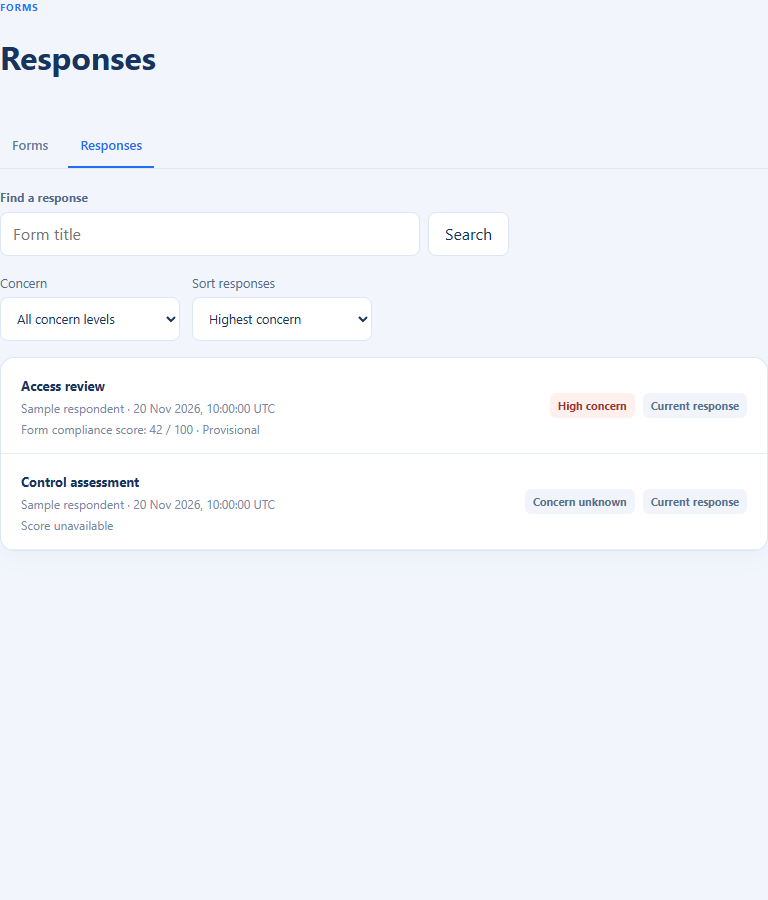
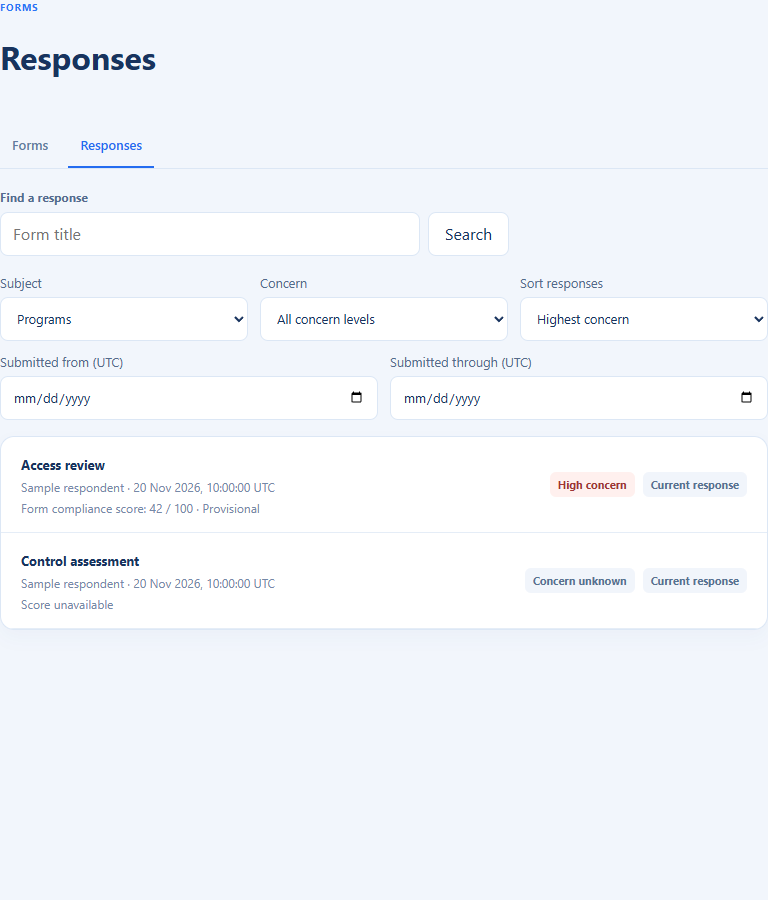
Add scoped response history and filters

diff --git a/web/src/v210/Responses.tsx b/web/src/v210/Responses.tsx
@@ -17,35 +17,44 @@ export function Responses({ id, reviewScope }: { id?: string; reviewScope?: Revi
 function ResponseList() {
   const [items, setItems] = useState<CompletedResponseSummary[]>([]);
   const [cursor, setCursor] = useState<string>();
-  const [state, setState] = useState<"loading" | "ready" | "error" | "invalid">("loading");
+  const [state, setState] = useState<"loading" | "ready" | "error" | "invalid" | "invalidDates" | "invalidSubject" | "invalidFilters">("loading");
   const initial = responseFilters();
   const [search, setSearch] = useState(initial.search); const [draft, setDraft] = useState(initial.search);
   const [concern, setConcern] = useState<"" | ResponseConcernBand>(initial.concern);
   const [sort, setSort] = useState<ResponseSort>(initial.sort);
+  const [from, setFrom] = useState(initial.from); const [through, setThrough] = useState(initial.through);
+  const [subject, setSubject] = useState(initial.subject);
+  const [invalidFilters, setInvalidFilters] = useState(initial.invalid);
   const [retry, setRetry] = useState(0); const [moreBusy, setMoreBusy] = useState(false); const [moreError, setMoreError] = useState(false);
   const generation = useRef(0);
   const moreLock = useRef<number | null>(null);
   useEffect(() => {
     const token = ++generation.current; moreLock.current = null; setItems([]); setCursor(undefined); setMoreBusy(false); setMoreError(false);
+    if (invalidFilters) { setState("invalidFilters"); return () => { generation.current++; }; }
     if (new TextEncoder().encode(search.trim()).length > 200) { setState("invalid"); return () => { generation.current++; }; }
+    if ((from && !validUTCDate(from)) || (through && !validUTCDate(through)) || (from && through && from > through)) { setState("invalidDates"); return () => { generation.current++; }; }
+    if (subject && !validResponseSubject(subject)) { setState("invalidSubject"); return () => { generation.current++; }; }
     setState("loading");
-    loadCompletedResponses({ search, current_only: false, limit: 25, sort, ...(concern ? {bands: [concern]} : {}) }).then((page) => { if (token === generation.current) { setItems(page.items); setCursor(page.next_cursor); setState("ready"); } }).catch(() => { if (token === generation.current) setState("error"); });
+    loadCompletedResponses({ search, current_only: false, limit: 25, sort, ...(concern ? {bands: [concern]} : {}), ...(subject ? {subject_type: subject} : {}), ...(from ? {completed_from: `${from}T00:00:00Z`} : {}), ...(through ? {completed_until: `${through}T23:59:59.999999Z`} : {}) }).then((page) => { if (token === generation.current) { setItems(page.items); setCursor(page.next_cursor); setState("ready"); } }).catch(() => { if (token === generation.current) setState("error"); });
     return () => { generation.current++; };
-  }, [search, concern, sort, retry]);
+  }, [search, concern, sort, subject, from, through, invalidFilters, retry]);
   async function more() {
     if (!cursor || moreBusy || moreLock.current !== null) return; const token = generation.current; moreLock.current = token; setMoreBusy(true); setMoreError(false);
-    try { const page = await loadCompletedResponses({ search, current_only: false, limit: 25, sort, ...(concern ? {bands: [concern]} : {}), cursor }); if (page.next_cursor === cursor) throw new Error("Response page unavailable"); if (token === generation.current) { setItems((value) => [...value, ...page.items]); setCursor(page.next_cursor); } }
+    try { const page = await loadCompletedResponses({ search, current_only: false, limit: 25, sort, ...(concern ? {bands: [concern]} : {}), ...(subject ? {subject_type: subject} : {}), ...(from ? {completed_from: `${from}T00:00:00Z`} : {}), ...(through ? {completed_until: `${through}T23:59:59.999999Z`} : {}), cursor }); if (page.next_cursor === cursor) throw new Error("Response page unavailable"); if (token === generation.current) { setItems((value) => [...value, ...page.items]); setCursor(page.next_cursor); } }
     catch (error) { if (token === generation.current) { if (accessDenied(error)) { setItems([]); setCursor(undefined); setState("error"); } else setMoreError(true); } }
     finally { if (moreLock.current === token) moreLock.current = null; if (token === generation.current) setMoreBusy(false); }
   }
   return <section className="v-responses"><header className="v-page-heading"><div><p className="v-eyebrow">Forms</p><h1>Responses</h1></div></header>
     <nav className="v-local-nav" aria-label="Form views"><a href="#/forms">Forms</a><a href="#/forms/responses" aria-current="page">Responses</a></nav>
     <form className="v-program-search" onSubmit={(event) => { event.preventDefault(); setSearch(draft.trim()); }}><label htmlFor="v-response-search">Find a response</label><div><input id="v-response-search" value={draft} onChange={(event) => setDraft(event.target.value)} placeholder="Form title"/><button>Search</button></div></form>
-    <div className="v-response-filters"><label>Concern<select value={concern} onChange={(event) => setConcern(event.target.value as "" | ResponseConcernBand)}><option value="">All concern levels</option><option value="CRITICAL">Critical</option><option value="HIGH">High</option><option value="MODERATE">Moderate</option><option value="LOW">Low</option></select></label><label>Sort responses<select value={sort} onChange={(event) => setSort(event.target.value as ResponseSort)}><option value="COMPLETED_DESC">Recently submitted</option><option value="CONCERN_DESC">Highest concern</option></select></label></div>
+    <div className="v-response-filters"><label>Subject<select value={subject} onChange={(event) => setSubject(event.target.value)}><option value="">All subjects</option><option value="PROGRAM">Programs</option><option value="MATTER">Issues and changes</option><option value="VENDOR_RELATIONSHIP">Vendor services</option>{subject && !validResponseSubject(subject) && <option value={subject} disabled>Unavailable subject</option>}</select></label><label>Concern<select value={concern} onChange={(event) => setConcern(event.target.value as "" | ResponseConcernBand)}><option value="">All concern levels</option><option value="CRITICAL">Critical</option><option value="HIGH">High</option><option value="MODERATE">Moderate</option><option value="LOW">Low</option></select></label><label>Sort responses<select value={sort} onChange={(event) => setSort(event.target.value as ResponseSort)}><option value="COMPLETED_DESC">Recently submitted</option><option value="CONCERN_DESC">Highest concern</option></select></label><label>Submitted from (UTC)<input type="date" value={from} onChange={(event) => setFrom(event.target.value)}/></label><label>Submitted through (UTC)<input type="date" value={through} onChange={(event) => setThrough(event.target.value)}/></label></div>
     {state === "loading" && <p role="status">Loading responses…</p>}
     {state === "invalid" && <p role="alert">Search is too long. Shorten the form title.</p>}
+    {state === "invalidFilters" && <div><p role="alert">Check the response filters.</p><button type="button" onClick={() => {clearResponseFilterParams(["response_search", "response_concern", "response_sort", "response_subject", "response_from", "response_through", "response_invalid"]); setSearch(""); setDraft(""); setConcern(""); setSort("COMPLETED_DESC"); setSubject(""); setFrom(""); setThrough(""); setInvalidFilters(false);}}>Clear filters</button></div>}
+    {state === "invalidSubject" && <div><p role="alert">Choose an available subject.</p><button type="button" onClick={() => {clearResponseFilterParams(["response_subject"]); setSubject("");}}>Clear subject</button></div>}
+    {state === "invalidDates" && <div><p role="alert">Check the submission dates.</p><button type="button" onClick={() => {clearResponseFilterParams(["response_from", "response_through"]); setFrom(""); setThrough("");}}>Clear dates</button></div>}
     {state === "error" && <div className="v-panel"><p role="alert">Responses unavailable.</p><button onClick={() => setRetry(retry + 1)}>Try again</button></div>}
-    {state === "ready" && <div className="v-panel v-response-list">{items.length === 0 ? <p>No responses match this search.</p> : <ul>{items.map((item) => <li key={item.id}><div><a href={`#/forms/responses/${encodeURIComponent(item.id)}${responseFilterQuery({search,concern,sort})}`}>{item.title}</a><small>{submitter(item)} · {timestampLabel(item.completed_at)}</small>{responseScoreLabel(item.score) && <small>{responseScoreLabel(item.score)}</small>}</div><div className="v-response-state"><span className={`v-status${responseConcern(item.score).high ? " v-status--high" : ""}`}>{responseConcern(item.score).label}</span><span className="v-status">{item.current ? "Current response" : "Earlier response"}</span></div></li>)}</ul>}{moreError && <p role="alert">More responses unavailable.</p>}{cursor && <button onClick={() => void more()} disabled={moreBusy}>{moreBusy ? "Loading…" : "Load more"}</button>}</div>}
+    {state === "ready" && <div className="v-panel v-response-list">{items.length === 0 ? <p>No responses match this search.</p> : <ul>{items.map((item) => <li key={item.id}><div><a href={`#/forms/responses/${encodeURIComponent(item.id)}${responseFilterQuery({search,concern,sort,subject,from,through,invalid:invalidFilters})}`}>{item.title}</a><small>{submitter(item)} · {timestampLabel(item.completed_at)}</small>{responseScoreLabel(item.score) && <small>{responseScoreLabel(item.score)}</small>}</div><div className="v-response-state"><span className={`v-status${responseConcern(item.score).high ? " v-status--high" : ""}`}>{responseConcern(item.score).label}</span><span className="v-status">{item.current ? "Current response" : "Earlier response"}</span></div></li>)}</ul>}{moreError && <p role="alert">More responses unavailable.</p>}{cursor && <button onClick={() => void more()} disabled={moreBusy}>{moreBusy ? "Loading…" : "Load more"}</button>}</div>}
   </section>;
 }
 
@@ -53,19 +62,21 @@ type Details = { response: CompletedResponseDetail; review?: ResponseReviewPage 
 function ResponseDetail({ id, reviewScope }: { id: string; reviewScope?: ReviewScope }) {
  const storageKey = reviewScope && reviewScope.tenant && reviewScope.entity && reviewScope.actor ? "clearsight:review:" + JSON.stringify([reviewScope.tenant,reviewScope.entity,reviewScope.actor,id]) : undefined;
  const [pending, setPending] = useState<PendingReview | null | undefined>(() => readPendingReview(storageKey));
-  const [data, setData] = useState<Details>(); const [state, setState] = useState<"loading" | "ready" | "error" | "invalid">("loading");
+  const [data, setData] = useState<Details>(); const [state, setState] = useState<"loading" | "ready" | "error">("loading");
   const [attempt, setAttempt] = useState(0); const [decision, setDecision] = useState<"" | ResponseReviewDecision>(""); const [comment, setComment] = useState("");
   const [busy, setBusy] = useState(false); const [saveError, setSaveError] = useState<"" | "validation" | "conflict" | "forbidden" | "unknown" | "committed" | "storage">(""); const [saved, setSaved] = useState(false);
   const [historyBusy, setHistoryBusy] = useState(false); const [historyError, setHistoryError] = useState(false);
   const [documentsBusy, setDocumentsBusy] = useState(false); const [documentsError, setDocumentsError] = useState(false);
+  const [earlier, setEarlier] = useState<Array<Pick<CompletedResponseDetail, "response" | "revision">>>([]); const [earlierBusy, setEarlierBusy] = useState(false); const [earlierError, setEarlierError] = useState(false);
   const generation = useRef(0);
   const saveLock = useRef(false);
   const historyLock = useRef<number | null>(null);
   const documentsLock = useRef<number | null>(null);
+  const earlierLock = useRef<number | null>(null);
   useEffect(() => {
     const token = ++generation.current; setState("loading"); setData(undefined); setSaveError(""); setSaved(false);
-    historyLock.current = null; documentsLock.current = null;
-    setHistoryBusy(false); setHistoryError(false); setDocumentsBusy(false); setDocumentsError(false);
+    historyLock.current = null; documentsLock.current = null; earlierLock.current = null;
+    setHistoryBusy(false); setHistoryError(false); setDocumentsBusy(false); setDocumentsError(false); setEarlier([]); setEarlierBusy(false); setEarlierError(false);
     Promise.allSettled([loadCompletedResponse(id), loadResponseReviews(id)]).then(([response, review]) => {
       if (token !== generation.current) return;
       if (response.status === "rejected" || !matchesResponseScope(response.value, id)) { setState("error"); return; }
@@ -115,6 +126,21 @@ function ResponseDetail({ id, reviewScope }: { id: string; reviewScope?: ReviewS
     catch (error) { if (token === generation.current) { if (accessDenied(error)) setData((value) => value ? { ...value, response: { ...value.response, documents: undefined, documents_next_cursor: undefined } } : value); else setDocumentsError(true); } }
     finally { if (documentsLock.current === token) documentsLock.current = null; if (token === generation.current) setDocumentsBusy(false); }
   }
+  async function loadEarlier() {
+    if (!data || earlierBusy || earlierLock.current !== null) return;
+    const distribution = data.response.response.distribution_id;
+    const last = earlier.at(-1) ?? data.response;
+    const nextID = last.revision.supersedes_revision_id;
+    const previousRevision = last.revision.revision;
+    if (!validHistoryIdentifier(distribution) || !validHistoryIdentifier(nextID) || nextID === id || earlier.some((item) => item.revision.id === nextID) || !Number.isSafeInteger(previousRevision) || previousRevision < 2) { setEarlierError(true); return; }
+    const token = generation.current; earlierLock.current = token; setEarlierBusy(true); setEarlierError(false);
+    try {
+      const item = await loadCompletedResponse(nextID);
+      if (!item?.response || !item.revision || item.response.id !== nextID || item.revision.id !== nextID || item.response.distribution_id !== distribution || item.response.current !== false || item.revision.current !== false || !Number.isSafeInteger(item.revision.revision) || item.revision.revision < 1 || item.revision.revision >= previousRevision || item.response.revision !== item.revision.revision) throw new Error("Earlier response unavailable");
+      if (token === generation.current) setEarlier((value) => [...value, {response:item.response, revision:item.revision}].slice(-25));
+    } catch (error) { if (token === generation.current) { if (accessDenied(error)) setEarlier([]); setEarlierError(true); } }
+    finally { if (earlierLock.current === token) earlierLock.current = null; if (token === generation.current) setEarlierBusy(false); }
+  }
   if (state === "loading") return <p role="status">Loading response…</p>;
   if (state === "error" || !data) return <section className="v-responses"><div className="v-panel"><h1>Response unavailable</h1><button className="v-primary" onClick={() => setAttempt(attempt + 1)}>Try again</button>{documentReturnDestination() && <p><a href={documentReturnDestination()}>View documents</a></p>}</div></section>;
   const { response: { response, revision, answers, documents, documents_next_cursor: documentsNext }, review } = data;
@@ -122,13 +148,14 @@ function ResponseDetail({ id, reviewScope }: { id: string; reviewScope?: ReviewS
   const canReview = Boolean(storageKey) && pending === undefined && isCurrent && answers && documents && !documentsNext && review?.may_review && (!saveError || saveError === "validation");
   const commentTooLong = new TextEncoder().encode(comment.trim()).length > 4000;
   const returnToDocuments = documentReturnDestination();
-  const previousHref = revision.supersedes_revision_id ? previousResponseHref(revision.supersedes_revision_id, response.distribution_id) : undefined;
+  const previousHref = revision.supersedes_revision_id && Number.isSafeInteger(response.revision) && response.revision === revision.revision && response.revision > 1 ? previousResponseHref(revision.supersedes_revision_id, response.distribution_id) : undefined;
   const documentHref = scopedDocumentsHref("response", id, undefined, response.distribution_id || undefined, responseFilterQuery(responseFilters()));
   return <section className="v-responses"><a className="v-back" href={returnToDocuments ?? `#/forms/responses${responseFilterQuery(responseFilters())}`}>{returnToDocuments ? "← Documents" : "← Responses"}</a><header className="v-page-heading"><div><p className="v-eyebrow">Response · Version {response.revision}</p><h1>{response.title}</h1></div><span className="v-status">{isCurrent ? "Current response" : "Earlier response"}</span></header>
     <div className="v-response-meta"><span>Submitted by <strong>{submitter(response)}</strong></span>{response.submission_recipient?.label && <span><span>Access recipient</span> <strong>{response.submission_recipient.label}</strong></span>}<span>Submitted <strong>{timestampLabel(response.completed_at)}</strong></span><span>Form version <strong>{response.form_template_version}</strong></span></div>
     {response.submission_recipient?.label && <p>Access recipient does not confirm who submitted the response.</p>}
-    {revision.supersedes_revision_id && <p>{previousHref ? <a href={previousHref}>Previous response</a> : "Earlier response unavailable."}</p>}
     {documentHref && <p><a href={documentHref}>View response documents</a></p>}
+    {revision.supersedes_revision_id && earlier.length === 0 && <p>{previousHref ? <a href={previousHref}>Previous response</a> : "Earlier response unavailable."}</p>}
+    {previousHref && Number.isSafeInteger(revision.revision) && revision.revision > 1 && <section className="v-panel v-response-versions"><h2>Earlier responses</h2>{earlier.length > 0 && <ul>{earlier.map((item) => <li key={item.revision.id}><a href={previousResponseHref(item.revision.id,response.distribution_id)}>Response version {item.revision.revision}</a><span>{timestampLabel(item.response.completed_at)}</span></li>)}</ul>}{earlierError && <p role="alert">Earlier responses unavailable.</p>}{(earlier.length === 0 || earlier.at(-1)?.revision.supersedes_revision_id) && <button type="button" disabled={earlierBusy} onClick={() => void loadEarlier()}>{earlierBusy ? "Loading…" : "Load earlier responses"}</button>}</section>}
     <section className="v-panel v-response-answers"><h2>Answers</h2>{!answers ? <p role="alert">Answers unavailable. Reload before reviewing.</p> : answers.length === 0 ? <p>No answers recorded.</p> : <dl>{answers.map(({ field_id, label, type, value }) => <div key={field_id}><dt>{label}</dt><dd>{answerLabel(type, value)}{value?.document && <span className="v-answer-document">{value.document.document_type && <span>Type: {value.document.document_type}</span>}{value.document.reference && <span>Reference: {value.document.reference}</span>}{value.document.issued_by && <span>Issued by: {value.document.issued_by}</span>}{value.document.issued_on && <span>Issued: {dateLabel(value.document.issued_on)}</span>}{value.document.expires_on && <span>Expires: {dateLabel(value.document.expires_on)}</span>}</span>}</dd></div>)}</dl>}</section>
     <section className="v-panel v-response-documents"><h2>Documents</h2>{!documents ? <p role="alert">Documents unavailable. Reload before reviewing.</p> : documents.length === 0 && !documentsNext ? <p>No documents submitted.</p> : <ul>{documents.map((document) => <li key={document.id}><span>{document.file_name}</span>{document.artifact_status === "AVAILABLE" || (document.artifact_status === "STORED_UNSCANNED" && document.demo_unscanned_allowed) ? <a href={documentContentURL(document, true)}>Download</a> : <small>File unavailable</small>}</li>)}</ul>}{documentsNext && <><p>More documents must be loaded before review.</p>{documentsError && <p role="alert">Additional documents unavailable.</p>}<button disabled={documentsBusy} onClick={() => void moreDocuments()}>{documentsBusy ? "Loading…" : "Load more documents"}</button></>}</section>
     <section className="v-panel v-response-review"><h2>Review</h2>{!review ? <><p role="alert">Review unavailable.</p><button onClick={() => setAttempt(attempt + 1)}>Reload response</button></> : <>
@@ -153,17 +180,35 @@ function readPendingReview(key?: string): PendingReview | null | undefined {
   return {...item, input: {...input, comment: ""}, needsComment: true};
  } catch { return null; }
 }
-function responseFilters(): {search: string; concern: "" | ResponseConcernBand; sort: ResponseSort} {
- const params = new URLSearchParams(window.location.hash.split("?")[1] ?? "");
- const band = params.get("response_concern"); const order = params.get("response_sort");
- return { search: (params.get("response_search") ?? ""), concern: band === "LOW" || band === "MODERATE" || band === "HIGH" || band === "CRITICAL" ? band : "", sort: order === "CONCERN_DESC" ? order : "COMPLETED_DESC" };
+function clearResponseFilterParams(keys: string[]) {
+ const hash = window.location.hash; const split = hash.indexOf("?");
+ if (split < 0) return;
+ const params = new URLSearchParams(hash.slice(split + 1)); keys.forEach((key) => params.delete(key));
+ const query = params.toString(); const url = new URL(window.location.href);
+ window.history.replaceState(window.history.state, "", url.pathname + url.search + hash.slice(0, split) + (query ? "?" + query : ""));
 }
-function responseFilterQuery(filters: {search: string; concern: "" | ResponseConcernBand; sort: ResponseSort}) {
+function responseFilters(): {search: string; concern: "" | ResponseConcernBand; sort: ResponseSort; subject: string; from: string; through: string; invalid: boolean} {
+ const params = new URLSearchParams(window.location.hash.split("?")[1] ?? "");
+ const band = params.get("response_concern"); const order = params.get("response_sort"); const subjects = params.getAll("response_subject");
+ const invalid = ["response_search","response_concern","response_sort","response_from","response_through"].some((key) => params.getAll(key).length > 1) || params.has("response_invalid") || (band !== null && band !== "" && !["LOW","MODERATE","HIGH","CRITICAL"].includes(band)) || (order !== null && order !== "" && order !== "COMPLETED_DESC" && order !== "CONCERN_DESC");
+ return { search: (params.get("response_search") ?? ""), concern: band === "LOW" || band === "MODERATE" || band === "HIGH" || band === "CRITICAL" ? band : "", sort: order === "CONCERN_DESC" ? order : "COMPLETED_DESC", subject: subjects.length > 1 ? "INVALID" : subjects[0] ?? "", from: params.get("response_from") ?? "", through: params.get("response_through") ?? "", invalid };
+}
+function responseFilterQuery(filters: {search: string; concern: "" | ResponseConcernBand; sort: ResponseSort; subject: string; from: string; through: string; invalid: boolean}) {
  const params = new URLSearchParams();
  if (filters.search) params.set("response_search", filters.search);
  if (filters.concern) params.set("response_concern", filters.concern);
+ if (filters.subject) params.set("response_subject", filters.subject);
  if (filters.sort !== "COMPLETED_DESC") params.set("response_sort", filters.sort);
+ if (filters.from) params.set("response_from", filters.from);
+ if (filters.through) params.set("response_through", filters.through);
+ if (filters.invalid) params.set("response_invalid", "1");
  const query = params.toString(); return query ? `?${query}` : "";
+}
+function validResponseSubject(value: string): boolean { return value === "PROGRAM" || value === "MATTER" || value === "VENDOR_RELATIONSHIP"; }
+function validUTCDate(value: string): boolean {
+ if (!/^\d{4}-\d{2}-\d{2}$/.test(value) || value.startsWith("0000-")) return false;
+ const date = new Date(`${value}T00:00:00Z`);
+ return !Number.isNaN(date.getTime()) && date.toISOString().slice(0, 10) === value;
 }
 function responseConcern(score?: ResponseScore): {label: string; high: boolean} {
  const valid = responseScoreLabel(score);
@@ -198,7 +243,10 @@ function previousResponseHref(id: string, distribution: string | undefined) {
   const query = params.toString();
   try { return `#/forms/responses/${encodeURIComponent(id)}?${query}`; } catch { return undefined; }
 }
-function validHistoryIdentifier(value: unknown): value is string { return typeof value === "string" && value.length > 0 && value.length <= 200 && value.trim() === value && value !== "*" && !/[\u0000-\u001f\u007f]/.test(value); }
+function validHistoryIdentifier(value: unknown): value is string {
+ if (typeof value !== "string" || value.length === 0 || value.length > 200 || value.trim() !== value || value === "*" || /[\u0000-\u001f\u007f]/.test(value)) return false;
+ try { encodeURIComponent(value); return true; } catch { return false; }
+}
 function accessDenied(error: unknown) { return ["unauthorized", "forbidden"].includes(apiErrorKind(error)); }
 function timestampLabel(value: string) {
   const match = /^(\d{4})-(\d{2})-(\d{2})T(\d{2}):(\d{2}):(\d{2})(?:\.\d+)?(?:Z|[+-]\d{2}:\d{2})$/.exec(value);

diff --git a/web/src/v210/Responses.test.tsx b/web/src/v210/Responses.test.tsx
@@ -500,3 +500,58 @@ it("rejects an overlong typed search without issuing a query",async()=>{
 it("shows only a stored valid concern band",async()=>{
  responses.loadCompletedResponses.mockResolvedValue({items:[{...summary,score:{state:"FINAL",final:true,mode:"COMPLIANCE",raw_score:42,band:"HIGH"}},{...summary,id:"unknown",title:"Unknown",score:{state:"FINAL",final:false,mode:"COMPLIANCE",raw_score:42,band:"CRITICAL"}},{...summary,id:"missing",title:"Missing"}]}); render(<Responses/>); expect(await screen.findByText("High concern")).toBeTruthy(); expect(screen.getAllByText("Concern unknown")).toHaveLength(2); expect(screen.queryByText("Critical concern")).toBeNull();
 });
+
+it("applies the inclusive UTC submission dates to the server query and next page", async () => {
+ responses.loadCompletedResponses.mockResolvedValue({items:[summary],next_cursor:"page-2"});
+ render(<Responses/>); await screen.findByText(/Ada Bello/);
+ fireEvent.change(screen.getByLabelText("Submitted from (UTC)"),{target:{value:"2026-11-01"}});
+ fireEvent.change(screen.getByLabelText("Submitted through (UTC)"),{target:{value:"2026-11-30"}});
+ await vi.waitFor(()=>expect(responses.loadCompletedResponses).toHaveBeenLastCalledWith(expect.objectContaining({completed_from:"2026-11-01T00:00:00Z",completed_until:"2026-11-30T23:59:59.999999Z"})));
+ fireEvent.click(await screen.findByRole("button",{name:"Load more"})); await vi.waitFor(()=>expect(responses.loadCompletedResponses).toHaveBeenLastCalledWith(expect.objectContaining({cursor:"page-2",completed_from:"2026-11-01T00:00:00Z",completed_until:"2026-11-30T23:59:59.999999Z"})));
+ expect(screen.getByRole("link",{name:"Access review"}).getAttribute("href")).toContain("response_from=2026-11-01");
+});
+it("rejects a reversed submission range without querying",async()=>{
+ render(<Responses/>); await screen.findByText(/Ada Bello/); fireEvent.change(screen.getByLabelText("Submitted from (UTC)"),{target:{value:"2026-12-01"}}); await vi.waitFor(()=>expect(responses.loadCompletedResponses).toHaveBeenLastCalledWith(expect.objectContaining({completed_from:"2026-12-01T00:00:00Z"}))); responses.loadCompletedResponses.mockClear();
+ fireEvent.change(screen.getByLabelText("Submitted through (UTC)"),{target:{value:"2026-11-01"}}); expect(await screen.findByText("Check the submission dates.")).toBeTruthy(); expect(responses.loadCompletedResponses).not.toHaveBeenCalled();
+});
+
+it("blocks malformed date filters from the link until cleared",async()=>{
+ const old=window.location.hash; window.history.replaceState(null,"","#/forms/responses?response_from=2026-02-30"); render(<Responses/>);
+ expect(await screen.findByText("Check the submission dates.")).toBeTruthy(); expect(responses.loadCompletedResponses).not.toHaveBeenCalled();
+ fireEvent.click(screen.getByRole("button",{name:"Clear dates"})); await vi.waitFor(()=>expect(responses.loadCompletedResponses).toHaveBeenCalledWith(expect.not.objectContaining({completed_from:expect.anything()}))); window.history.replaceState(null,"",old||"#/forms/responses");
+});
+it("restores date filters from a response detail link",async()=>{
+ const old=window.location.hash; window.history.replaceState(null,"","#/forms/responses/revision-1?response_from=2026-11-01&response_through=2026-11-30"); render(<Responses id="revision-1" reviewScope={{tenant:"tenant",entity:"entity",actor:"reviewer"}}/>);
+ expect((await screen.findByRole("link",{name:"← Responses"})).getAttribute("href")).toBe("#/forms/responses?response_from=2026-11-01&response_through=2026-11-30"); window.history.replaceState(null,"",old||"#/forms/responses");
+});
+
+it("filters responses by subject on the server and retains it across pagination",async()=>{
+ responses.loadCompletedResponses.mockResolvedValueOnce({items:[summary],next_cursor:"initial"}).mockResolvedValueOnce({items:[summary],next_cursor:"next"}).mockResolvedValueOnce({items:[]}); render(<Responses/>); await screen.findByText(/Ada Bello/);
+ fireEvent.change(screen.getByLabelText("Subject"),{target:{value:"MATTER"}}); await vi.waitFor(()=>expect(responses.loadCompletedResponses).toHaveBeenLastCalledWith(expect.objectContaining({subject_type:"MATTER"})));
+ expect((await screen.findByRole("link",{name:"Access review"})).getAttribute("href")).toContain("response_subject=MATTER"); fireEvent.click(screen.getByRole("button",{name:"Load more"})); await vi.waitFor(()=>expect(responses.loadCompletedResponses).toHaveBeenLastCalledWith(expect.objectContaining({subject_type:"MATTER",cursor:"next"})));
+});
+it("blocks an unsupported subject in a link rather than broadening the query",async()=>{
+ const old=window.location.hash; window.history.replaceState(null,"","#/forms/responses?response_subject=OTHER"); render(<Responses/>); expect(await screen.findByText("Choose an available subject." )).toBeTruthy(); expect(responses.loadCompletedResponses).not.toHaveBeenCalled(); fireEvent.click(screen.getByRole("button",{name:"Clear subject"})); await vi.waitFor(()=>expect(responses.loadCompletedResponses).toHaveBeenCalled()); window.history.replaceState(null,"",old||"#/forms/responses");
+});
+
+it("retains the selected subject through response and previous-version navigation",async()=>{
+ const old=window.location.hash; window.history.replaceState(null,"","#/forms/responses/revision-1?response_subject=MATTER&response_from=2026-11-01"); responses.loadCompletedResponse.mockResolvedValue({response:{...summary,distribution_id:"distribution"},revision:{id:"revision-1",revision:2,current:true,supersedes_revision_id:"previous"},answers:[],documents:[]});
+ render(<Responses id="revision-1" reviewScope={{tenant:"tenant",entity:"entity",actor:"reviewer"}}/>);
+ expect((await screen.findByRole("link",{name:"← Responses"})).getAttribute("href")).toContain("response_subject=MATTER");
+ const previous=(screen.getByRole("link",{name:"Previous response"}) as HTMLAnchorElement).getAttribute("href")??""; expect(previous).toContain("response_subject=MATTER"); expect(previous).toContain("distribution_id=distribution"); window.history.replaceState(null,"",old||"#/forms/responses");
+});
+it("discards an older page when subject changes",async()=>{
+ let finish!: (value: unknown)=>void; responses.loadCompletedResponses.mockResolvedValueOnce({items:[summary],next_cursor:"old"}).mockReturnValueOnce(new Promise(resolve=>{finish=resolve})).mockResolvedValueOnce({items:[{...summary,id:"new",title:"New scope"}]});
+ render(<Responses/>); fireEvent.click(await screen.findByRole("button",{name:"Load more"})); fireEvent.change(screen.getByLabelText("Subject"),{target:{value:"PROGRAM"}}); expect(await screen.findByText("New scope")).toBeTruthy(); await act(async()=>{finish({items:[{...summary,id:"stale",title:"Stale scope"}]});}); expect(screen.queryByText("Stale scope")).toBeNull();
+});
+it("does not broaden a link with duplicate subject filters",async()=>{
+ const old=window.location.hash; window.history.replaceState(null,"","#/forms/responses?response_subject=MATTER&response_subject=PROGRAM"); render(<Responses/>); expect(await screen.findByText("Choose an available subject.")).toBeTruthy(); expect(responses.loadCompletedResponses).not.toHaveBeenCalled(); window.history.replaceState(null,"",old||"#/forms/responses");
+});
+
+it.each(["response_concern=HIGH&response_concern=LOW","response_concern=UNKNOWN","response_sort=UNKNOWN","response_sort=CONCERN_DESC&response_sort=COMPLETED_DESC","response_from=2026-01-01&response_from=2026-02-01","response_through=2026-01-01&response_through=2026-02-01"])("does not broaden a malformed filter link: %s",async(query)=>{
+ const old=window.location.hash; window.history.replaceState(null,"",`#/forms/responses?${query}`); render(<Responses/>); expect(await screen.findByText("Check the response filters.")).toBeTruthy(); expect(responses.loadCompletedResponses).not.toHaveBeenCalled(); fireEvent.click(screen.getByRole("button",{name:"Clear filters"})); await vi.waitFor(()=>expect(responses.loadCompletedResponses).toHaveBeenCalled()); window.history.replaceState(null,"",old||"#/forms/responses");
+});
+
+it("removes malformed filter parameters when clearing them",async()=>{
+ const old=window.location.hash;window.history.replaceState(null,"","#/forms/responses?response_concern=UNKNOWN"); render(<Responses/>);fireEvent.click(await screen.findByRole("button",{name:"Clear filters"}));await vi.waitFor(()=>expect(responses.loadCompletedResponses).toHaveBeenCalled()); expect(window.location.hash).not.toContain("response_concern");window.history.replaceState(null,"",old||"#/forms/responses");
+});

diff --git a/web/src/components/forms/ResponsesReview.test.tsx b/web/src/components/forms/ResponsesReview.test.tsx
@@ -133,3 +133,41 @@ it("allows correction after a definite validation rejection", async () => {
 it("does not submit without verified account scope", async () => {
  render(<Responses id="response-2"/>); expect(await screen.findByText("Review unavailable.")).toBeTruthy(); expect(screen.queryByRole("button",{name:"Save review"})).toBeNull(); expect(review.recordResponseReview).not.toHaveBeenCalled();
 });
+
+it("loads an earlier response only from the same distribution",async()=>{
+ responses.loadCompletedResponse.mockResolvedValueOnce(detail).mockResolvedValueOnce({response:{...summary,id:"response-1",revision:1,current:false},revision:{id:"response-1",revision:1,current:false},answers:[],documents:[]});
+ render(<Responses id="response-2" reviewScope={{tenant:"tenant",entity:"entity",actor:"reviewer"}}/>); fireEvent.click(await screen.findByRole("button",{name:"Load earlier responses"}));
+ const link=await screen.findByRole("link",{name:"Response version 1"}); expect(link.getAttribute("href")).toBe("#/forms/responses/response-1?distribution_id=distribution-1"); expect(responses.loadCompletedResponse).toHaveBeenLastCalledWith("response-1");
+});
+it("does not display or follow an earlier response from another distribution",async()=>{
+ responses.loadCompletedResponse.mockResolvedValueOnce(detail).mockResolvedValueOnce({response:{...summary,id:"response-1",revision:1,current:false,distribution_id:"other"},revision:{id:"response-1",revision:1,current:false},answers:[],documents:[]});
+ render(<Responses id="response-2" reviewScope={{tenant:"tenant",entity:"entity",actor:"reviewer"}}/>); fireEvent.click(await screen.findByRole("button",{name:"Load earlier responses"})); expect(await screen.findByText("Earlier responses unavailable.")).toBeTruthy(); expect(screen.queryByRole("link",{name:"Response version 1"})).toBeNull(); expect(screen.getByRole("button",{name:"Load earlier responses"})).toBeTruthy();
+});
+
+it("loads the revision chain one authorized response at a time",async()=>{
+ const first={...detail,response:{...summary,revision:3},revision:{id:"response-2",revision:3,current:true,supersedes_revision_id:"response-1"}};
+ const middle={response:{...summary,id:"response-1",revision:2,current:false},revision:{id:"response-1",revision:2,current:false,supersedes_revision_id:"response-0"},answers:[],documents:[]};
+ const oldest={response:{...summary,id:"response-0",revision:1,current:false},revision:{id:"response-0",revision:1,current:false},answers:[],documents:[]};
+ responses.loadCompletedResponse.mockResolvedValueOnce(first).mockResolvedValueOnce(middle).mockResolvedValueOnce(oldest);
+ render(<Responses id="response-2" reviewScope={{tenant:"tenant",entity:"entity",actor:"reviewer"}}/>); fireEvent.click(await screen.findByRole("button",{name:"Load earlier responses"})); expect(await screen.findByRole("link",{name:"Response version 2"})).toBeTruthy(); fireEvent.click(screen.getByRole("button",{name:"Load earlier responses"})); expect(await screen.findByRole("link",{name:"Response version 1"})).toBeTruthy(); expect(screen.queryByRole("button",{name:"Load earlier responses"})).toBeNull(); expect(responses.loadCompletedResponse.mock.calls.map((c)=>c[0])).toEqual(["response-2","response-1","response-0"]);
+});
+it("rejects an inconsistent historical revision",async()=>{
+ responses.loadCompletedResponse.mockResolvedValueOnce(detail).mockResolvedValueOnce({response:{...summary,id:"response-1",revision:2,current:false},revision:{id:"response-1",revision:2,current:false},answers:[],documents:[]}); render(<Responses id="response-2" reviewScope={{tenant:"tenant",entity:"entity",actor:"reviewer"}}/>); fireEvent.click(await screen.findByRole("button",{name:"Load earlier responses"})); expect(await screen.findByText("Earlier responses unavailable.")).toBeTruthy(); expect(screen.queryByRole("link",{name:"Response version 2"})).toBeNull();
+});
+
+it("clears previously loaded versions when earlier access is denied",async()=>{
+ const first={...detail,response:{...summary,revision:3},revision:{id:"response-2",revision:3,current:true,supersedes_revision_id:"response-1"}};const middle={response:{...summary,id:"response-1",revision:2,current:false},revision:{id:"response-1",revision:2,current:false,supersedes_revision_id:"response-0"},answers:[],documents:[]};
+ responses.loadCompletedResponse.mockResolvedValueOnce(first).mockResolvedValueOnce(middle).mockRejectedValueOnce(new ApiError(403,"Forbidden")); render(<Responses id="response-2" reviewScope={{tenant:"tenant",entity:"entity",actor:"reviewer"}}/>); fireEvent.click(await screen.findByRole("button",{name:"Load earlier responses"})); expect(await screen.findByRole("link",{name:"Response version 2"})).toBeTruthy(); fireEvent.click(screen.getByRole("button",{name:"Load earlier responses"})); expect(await screen.findByText("Earlier responses unavailable.")).toBeTruthy(); expect(screen.queryByRole("link",{name:"Response version 2"})).toBeNull();
+});
+it("discards an earlier response returned after changing selection",async()=>{
+ let finish!: (value:unknown)=>void; responses.loadCompletedResponse.mockResolvedValueOnce(detail).mockReturnValueOnce(new Promise(resolve=>{finish=resolve})).mockResolvedValueOnce({response:{...summary,id:"new",revision:1},revision:{id:"new",revision:1,current:true},answers:[],documents:[]});
+ const view=render(<Responses id="response-2" reviewScope={{tenant:"tenant",entity:"entity",actor:"reviewer"}}/>); fireEvent.click(await screen.findByRole("button",{name:"Load earlier responses"})); view.rerender(<Responses id="new" reviewScope={{tenant:"tenant",entity:"entity",actor:"reviewer"}}/>); await screen.findByRole("heading",{name:"Security review"}); await waitFor(()=>expect(responses.loadCompletedResponse).toHaveBeenCalledWith("new")); finish({response:{...summary,id:"response-1",revision:1,current:false},revision:{id:"response-1",revision:1,current:false},answers:[],documents:[]}); await waitFor(()=>expect(screen.queryByRole("link",{name:"Response version 1"})).toBeNull());
+});
+
+it("continues through a long history with a bounded moving window",async()=>{
+ responses.loadCompletedResponse.mockImplementation(async(id:string)=>{const version=Number(id.split("-").at(-1));return {response:{...summary,id,revision:version,current:version===28},revision:{id,revision:version,current:version===28,...(version>1?{supersedes_revision_id:`response-${version-1}`}:{})},answers:[],documents:[]};});
+ render(<Responses id="response-28" reviewScope={{tenant:"tenant",entity:"entity",actor:"reviewer"}}/>);
+ for(let version=27;version>=2;version--){fireEvent.click(await screen.findByRole("button",{name:"Load earlier responses"}));await screen.findByRole("link",{name:`Response version ${version}`});}
+ expect(screen.queryByRole("link",{name:"Response version 27"})).toBeNull(); expect(screen.getByRole("link",{name:"Response version 2"})).toBeTruthy();
+ fireEvent.click(screen.getByRole("button",{name:"Load earlier responses"}));expect(await screen.findByRole("link",{name:"Response version 1"})).toBeTruthy();expect(screen.queryByRole("button",{name:"Load earlier responses"})).toBeNull();
+});

diff --git a/web/src/v210/documentReturn.ts b/web/src/v210/documentReturn.ts
@@ -33,9 +33,15 @@ export function scopedResponseReturn(target: string, id: string): string | undef
   const base = `#/forms/responses/${encodeURIComponent(id)}`;
   if (target.length > 1200 || !target.startsWith(`${base}?`)) return undefined;
   const query = new URLSearchParams(target.slice(base.length + 1));
-  const allowed = new Set(["distribution_id", "response_search", "response_concern", "response_sort"]);
+  const allowed = new Set(["distribution_id", "response_search", "response_concern", "response_sort", "response_from", "response_through", "response_subject", "response_invalid"]);
   for (const key of query.keys()) if (!allowed.has(key) || query.getAll(key).length !== 1) return undefined;
   const distribution = query.get("distribution_id"), search = query.get("response_search"), concern = query.get("response_concern"), sort = query.get("response_sort");
+  const from = query.get("response_from"), through = query.get("response_through");
+  const subject = query.get("response_subject");
+  if (subject !== null && !["PROGRAM", "MATTER", "VENDOR_RELATIONSHIP"].includes(subject)) return undefined;
+  if (query.has("response_invalid") && query.get("response_invalid") !== "1") return undefined;
+  const validDate = (value: string) => { if (!/^\d{4}-\d{2}-\d{2}$/.test(value) || value.startsWith("0000-")) return false; const date = new Date(`${value}T00:00:00Z`); return Number.isFinite(date.getTime()) && date.toISOString().slice(0, 10) === value; };
+  if ((from !== null && !validDate(from)) || (through !== null && !validDate(through)) || (from !== null && through !== null && from > through)) return undefined;
   if ((distribution !== null && !/^[A-Za-z0-9_-]{1,200}$/.test(distribution)) || (search !== null && new TextEncoder().encode(search.trim()).length > 200) || (concern !== null && !["LOW", "MODERATE", "HIGH", "CRITICAL"].includes(concern)) || (sort !== null && !["COMPLETED_DESC", "CONCERN_DESC"].includes(sort))) return undefined;
   return `${base}?${query}`;
 }

diff --git a/web/src/v210/responses.css b/web/src/v210/responses.css
@@ -32,7 +32,13 @@
 
 .v-response-filters { display: flex; flex-wrap: wrap; gap: 12px; margin: 0 0 16px; }
 .v-response-filters label { display: grid; gap: 6px; color: var(--v-muted, #536b8c); font-size: 0.8rem; }
-.v-response-filters select { min-height: var(--v-field-height); min-width: 180px; padding: 0 12px; border: 1px solid var(--v-field-border); border-radius: var(--v-field-radius); background: var(--v-field-background); color: var(--v-field-text); }
-@media (max-width: 480px) { .v-response-filters label { flex: 1 1 100%; } .v-response-filters select { width: 100%; } }
+.v-response-filters input, .v-response-filters select { min-height: var(--v-field-height); min-width: 180px; padding: 0 12px; border: 1px solid var(--v-field-border); border-radius: var(--v-field-radius); background: var(--v-field-background); color: var(--v-field-text); }
+@media (max-width: 480px) { .v-response-filters label { flex: 1 1 100%; } .v-response-filters input, .v-response-filters select { width: 100%; } }
 
 .v-response-state { display: flex; flex-wrap: wrap; gap: 8px; }
+@media (min-width: 481px) and (max-width: 900px) { .v-response-filters label { flex: 1 1 calc(33.333% - 12px); } .v-response-filters input, .v-response-filters select { width: 100%; } }
+
+.v-response-versions { margin-bottom: 20px; }
+.v-response-versions ul { list-style: none; padding: 0; }
+.v-response-versions li { display: flex; flex-wrap: wrap; gap: 8px 20px; padding: 10px 0; border-top: 1px solid #e5edf7; }
+.v-response-versions li span { color: #536c90; font-size: 12px; }

diff --git a/web/src/v210/Documents.test.tsx b/web/src/v210/Documents.test.tsx
@@ -79,6 +79,14 @@ it("preserves safe response filters when returning to a scoped response", async 
   expect((await screen.findByRole("link", { name: "← Response" })).getAttribute("href")).toBe(destination);
 });
 
+it("preserves response submission dates when returning to a scoped response", async () => {
+  const destination = "#/forms/responses/revision-1?response_from=2026-11-01&response_through=2026-11-22&response_subject=PROGRAM";
+  window.history.replaceState(null, "", `#/documents?response_revision_id=revision-1&return_to=${encodeURIComponent(destination)}`);
+  documents.loadDocuments.mockResolvedValue({ items: [] });
+  render(<Documents/>);
+  expect((await screen.findByRole("link", { name: "← Response" })).getAttribute("href")).toBe(destination);
+});
+
 it("rejects an untrusted response return query", async () => {
   const destination = "#/forms/responses/revision-1?response_concern=HIGH&return_to=https://example.test";
   window.history.replaceState(null, "", `#/documents?response_revision_id=revision-1&return_to=${encodeURIComponent(destination)}`);
